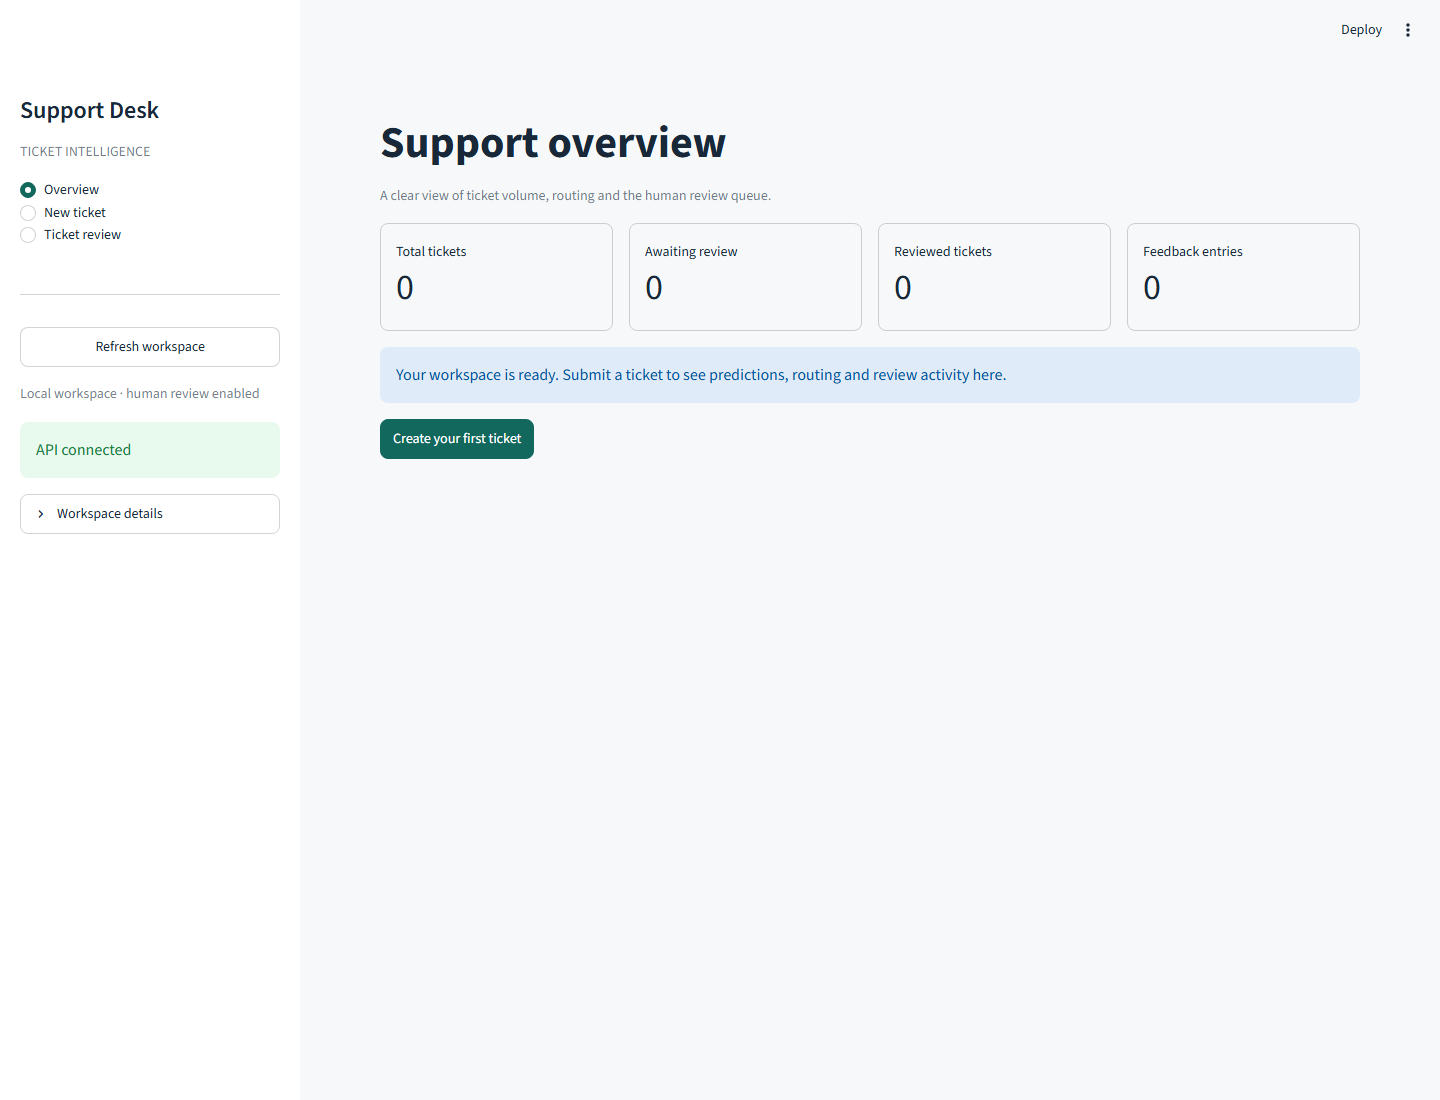
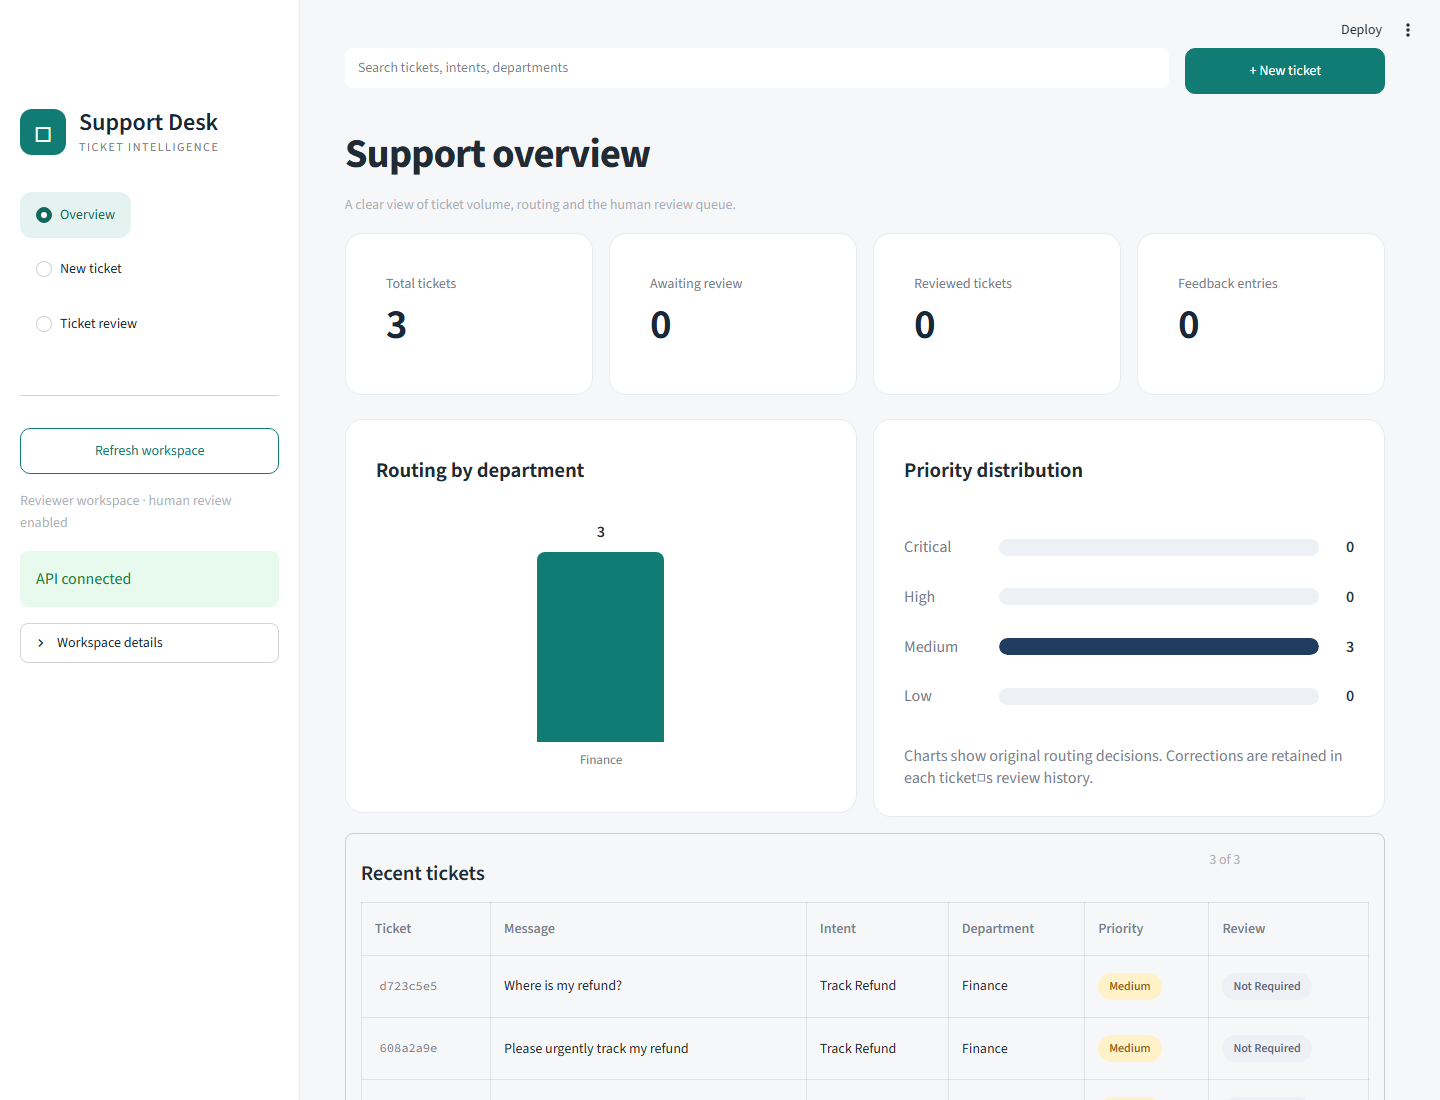
Restyle support dashboard to match supplied design template

diff --git a/app/dashboard.css b/app/dashboard.css
@@ -1,0 +1,53 @@
+<style>
+:root { --desk-teal:#107c74; --desk-border:#e7eaee; }
+.stApp { background:#f6f7f9; color:#202b34; }
+.stMainBlockContainer { max-width:1600px; padding:2rem 2.8rem 3rem; }
+header[data-testid="stHeader"] { background:transparent; }
+[data-testid="stSidebar"] { background:white; border-right:1px solid var(--desk-border); }
+[data-testid="stSidebar"] > div:first-child { padding-top:2rem; }
+.brand { display:flex; gap:13px; align-items:center; margin:0 0 35px; }
+.brand-icon { display:grid; place-items:center; background:var(--desk-teal); color:white; border-radius:12px; width:46px; height:46px; font-size:32px; }
+.brand strong { font-size:24px; line-height:1.2; }
+.brand small { display:block; color:#78828d; font-size:12px; letter-spacing:1.5px; max-width:150px; }
+[data-testid="stSidebar"] [role="radiogroup"] { gap:8px; }
+[data-testid="stSidebar"] [role="radiogroup"] label { padding:12px 16px; border-radius:12px; width:100%; font-size:17px; }
+[data-testid="stSidebar"] [role="radiogroup"] label:has(input:checked) { background:#e4f3f0; color:#12685d; font-weight:650; }
+[data-testid="stSidebar"] [role="radiogroup"] label > div:first-child { display:none; }
+[data-testid="stSidebar"] button { border-color:var(--desk-teal); color:var(--desk-teal); font-weight:650; min-height:48px; }
+h1 { font-size:2.55rem!important; letter-spacing:-1px; padding-top:1.2rem!important; }
+h3 { font-size:1.3rem!important; }
+[data-testid="stCaptionContainer"] { color:#75808b; }
+[data-testid="stMetric"] { background:white; border:1px solid var(--desk-border)!important; border-radius:17px; padding:23px 25px!important; }
+[data-testid="stMetricValue"] { font-size:2.6rem; font-weight:650; }
+[data-testid="stMetricLabel"] { color:#76818b; }
+[data-testid="stVerticalBlockBorderWrapper"] > div { border-radius:17px!important; border-color:var(--desk-border)!important; background:white; }
+.stButton button, .stFormSubmitButton button { border-radius:10px; min-height:46px; }
+button[kind="primary"] { background:var(--desk-teal); border-color:var(--desk-teal); font-weight:650; }
+[data-testid="stTextInput"] input { min-height:42px; }
+.chart-card { background:white; border:1px solid var(--desk-border); border-radius:18px; padding:26px 30px; min-height:365px; margin:8px 0 16px; }
+.chart-card h3 { margin:0 0 28px; font-size:22px; font-weight:650; }
+.department-chart { height:260px; display:flex; align-items:flex-end; justify-content:space-around; gap:18px; padding-top:12px; }
+.department-column { flex:1; max-width:155px; display:flex; align-items:center; flex-direction:column; gap:8px; }
+.department-column span { font-weight:600; }
+.department-bar { background:var(--desk-teal); width:82%; border-radius:8px 8px 0 0; }
+.department-column small { color:#78828d; text-align:center; min-height:36px; font-size:13px; }
+.priority-chart { display:flex; flex-direction:column; gap:24px; margin:36px 0; }
+.priority-row { display:grid; grid-template-columns:80px 1fr 20px; gap:15px; align-items:center; color:#75808b; }
+.priority-track { height:17px; background:#edf0f5; border-radius:20px; overflow:hidden; }
+.priority-fill { height:100%; background:#203d60; border-radius:20px; }
+.priority-fill.critical { background:#d74b55; } .priority-fill.high { background:#df8c36; } .priority-fill.low { background:#159184; }
+.priority-row strong { color:#26313b; text-align:right; }
+.chart-note { color:#7a838d; font-size:14px; line-height:1.4; margin:0; }
+.ticket-table-wrap { overflow-x:auto; }
+.ticket-table { border-collapse:collapse; width:100%; font-size:14px; text-align:left; background:white; }
+.ticket-table th, .ticket-table td { border-left:0!important; border-right:0!important; }
+.ticket-table th { background:#f6f7f9; color:#74808d; font-weight:550; padding:15px 13px; white-space:nowrap; }
+.ticket-table td { border-top:1px solid #edf0f3; padding:17px 13px; vertical-align:middle; }
+.ticket-table td:nth-child(2) { min-width:230px; max-width:390px; overflow-wrap:anywhere; }
+.ticket-table code { background:none; color:#75808b; font-size:12px; }
+.badge { display:inline-block; border-radius:30px; padding:4px 11px; white-space:nowrap; font-size:12px; font-weight:550; background:#edf0f5; color:#586578; }
+.badge.medium { background:#fff2c9; color:#95601d; } .badge.high { background:#ffead9; color:#a94c12; }
+.badge.critical,.badge.needs_review { background:#ffe4e7; color:#ab3548; }
+.badge.low,.badge.reviewed { background:#dcfbe8; color:#26784b; }
+@media(max-width:800px) { .stMainBlockContainer { padding:1.2rem; } .chart-card { padding:20px; } h1 { font-size:2rem!important; } }
+</style>

diff --git a/app/dashboard.py b/app/dashboard.py
@@ -1,6 +1,7 @@
 """Streamlit customer support dashboard, backed exclusively by the HTTP API."""
 
 from pathlib import Path
+from html import escape
 import hmac
 import os
 import sys
@@ -34,6 +35,10 @@ def require_access():
     if st.session_state.get("access_failed"):
         st.error("Password not recognized.")
     return False
+
+
+def render_html(markup):
+    st.markdown(markup, unsafe_allow_html=True)
 
 
 def readable(value):
@@ -95,15 +100,26 @@ def show_overview(api):
         return
     left, right = st.columns(2)
     with left:
-        with st.container(border=True):
-            st.subheader("Routing by department")
-            st.bar_chart(pd.DataFrame.from_dict(metrics["original_departments"], orient="index", columns=["Tickets"]), color="#12685d")
+        departments = metrics["original_departments"]
+        maximum = max(departments.values(), default=1) or 1
+        bars = ''.join(f'<div class="department-column"><span>{count}</span><div class="department-bar" style="height:{max(2, count / maximum * 190)}px"></div><small>{escape(name)}</small></div>' for name, count in departments.items())
+        render_html(f'<section class="chart-card"><h3>Routing by department</h3><div class="department-chart">{bars}</div></section>')
     with right:
-        with st.container(border=True):
-            st.subheader("Priority distribution")
-            counts = {priority: metrics["original_priorities"].get(priority, 0) for priority in ["Critical", "High", "Medium", "Low"]}
-            st.bar_chart(pd.DataFrame.from_dict(counts, orient="index", columns=["Tickets"]), color="#315b87")
-    st.caption("Charts show original routing decisions. Corrections are retained in each ticket’s review history.")
+        counts = {priority: metrics["original_priorities"].get(priority, 0) for priority in ["Critical", "High", "Medium", "Low"]}
+        maximum = max(counts.values(), default=1) or 1
+        rows = ''.join(f'<div class="priority-row"><span>{priority}</span><div class="priority-track"><div class="priority-fill {priority.lower()}" style="width:{count / maximum * 100}%"></div></div><strong>{count}</strong></div>' for priority, count in counts.items())
+        render_html(f'<section class="chart-card"><h3>Priority distribution</h3><div class="priority-chart">{rows}</div><p class="chart-note">Charts show original routing decisions. Corrections are retained in each ticket&#9633;s review history.</p></section>')
+    search = st.session_state.get('overview_search', '').strip().casefold()
+    result = api.tickets(limit=100 if search else 5)
+    tickets = result['items']
+    if search:
+        tickets = [t for t in tickets if search in ' '.join([t['id'], t['text'], readable(t['result']['prediction']['intent']), t['result']['department']]).casefold()]
+        st.caption('Search covers the latest 100 tickets: messages, intents, departments and ticket IDs.')
+    with st.container(border=True):
+        heading, count = st.columns([5, 1])
+        heading.subheader('Recent tickets' if not search else 'Search results')
+        count.caption(f"{len(tickets)} of {result['total']}")
+        show_ticket_table(tickets)
     with st.expander('Human feedback analytics'):
         st.metric('Human correction rate', f"{metrics['correction_rate']:.1%}")
         st.caption('Latest review per ticket; confirmations are not corrections. This is review activity, not unbiased test accuracy.')
@@ -111,8 +127,6 @@ def show_overview(api):
             st.bar_chart(pd.DataFrame.from_dict(metrics['corrected_intents'], orient='index', columns=['Corrected tickets']))
         if metrics['review_activity_by_day']:
             st.dataframe(pd.DataFrame.from_dict(metrics['review_activity_by_day'], orient='index').rename_axis('Review date'), width='stretch')
-    st.subheader("Recent tickets")
-    show_ticket_table(api.tickets(limit=5)["items"])
 
 
 def show_new_ticket(api):
@@ -122,7 +136,7 @@ def show_new_ticket(api):
     with left:
         with st.form("new_ticket_form"):
             text = st.text_area("Customer message", height=190, max_chars=10000, key="ticket_text",
-                                placeholder="For example: I requested a refund last week. Can you check its status?")
+                                placeholder="For example: I requested a refund last week. Can you check its status&#9633;")
             submitted = st.form_submit_button("Classify and save ticket", type="primary")
         if submitted:
             if not text.strip():
@@ -149,9 +163,19 @@ def show_ticket_table(tickets):
     if not tickets:
         st.info("No tickets to display.")
         return
-    st.dataframe([{"Ticket": t["id"][:8], "Message": t["text"], "Intent": readable(t["result"]["prediction"]["intent"]),
-                   "Department": t["result"]["department"], "Priority": t["result"]["priority"],
-                   "Review": readable(t["review_status"])} for t in tickets], hide_index=True, width="stretch")
+    rows = []
+    for ticket in tickets:
+        result = ticket['result']
+        priority = result['priority']
+        status = ticket['review_status']
+        cells = [f'<code>{escape(ticket["id"][:8])}</code>', escape(ticket['text']),
+                 escape(readable(result['prediction']['intent'])), escape(result['department']),
+                 f'<span class="badge {escape(priority.lower())}">{escape(priority)}</span>',
+                 f'<span class="badge {escape(status)}">{escape(readable(status))}</span>']
+        rows.append('<tr>' + ''.join(f'<td>{cell}</td>' for cell in cells) + '</tr>')
+    headers = ''.join(f'<th>{name}</th>' for name in ['Ticket', 'Message', 'Intent', 'Department', 'Priority', 'Review'])
+    render_html('<div class="ticket-table-wrap"><table class="ticket-table"><thead><tr>' + headers + '</tr></thead><tbody>' + ''.join(rows) + '</tbody></table></div>')
+
 
 
 def show_review(api):
@@ -227,12 +251,12 @@ def show_review(api):
 
 def main():
     st.set_page_config(page_title="Support Desk · Ticket intelligence", page_icon="📬", layout="wide")
+    render_html((Path(__file__).parent / "dashboard.css").read_text(encoding="utf-8"))
     if not require_access():
         st.stop()
     api = SupportAPI()
     with st.sidebar:
-        st.title("Support Desk")
-        st.caption("TICKET INTELLIGENCE")
+        render_html('<div class="brand"><span class="brand-icon">&#9633;</span><div><strong>Support Desk</strong><small>TICKET INTELLIGENCE</small></div></div>')
         page = st.radio("Workspace", ["Overview", "New ticket", "Ticket review"], key="navigation", label_visibility="collapsed")
         st.divider()
         refresh = st.button("Refresh workspace", width="stretch")
@@ -247,6 +271,11 @@ def main():
                 st.caption(f"Model: {health['model_version']}")
                 st.caption(f"Policy: {health['policy_version']}")
                 st.caption(f"Application: {health.get('application_version', '1.0.0')}")
+        search_column, action_column = st.columns([4, 1])
+        with search_column:
+            st.text_input("Search tickets, intents, departments", placeholder="Search tickets, intents, departments", key="overview_search", label_visibility="collapsed", disabled=page != "Overview")
+        with action_column:
+            st.button("+ New ticket", type="primary", on_click=navigate_to_new, width="stretch")
         if st.session_state.pop("review_saved", None):
             st.success("Review saved. The original prediction is preserved and the review queue is updated.")
         {"Overview": show_overview, "New ticket": show_new_ticket, "Ticket review": show_review}[page](api)

diff --git a/tests/test_dashboard.py b/tests/test_dashboard.py
@@ -106,7 +106,13 @@ class DashboardTests(unittest.TestCase):
         app = self.app.run()
         self.assertFalse(app.exception)
         self.assertEqual(app.metric[0].value, "1")
-        self.assertTrue(app.dataframe)
+        self.assertTrue(any(item.value == "Recent tickets" for item in app.subheader))
+        app.text_input(key="overview_search").set_value("Finance").run()
+        self.assertFalse(app.exception)
+        self.assertTrue(any("1 of 1" in item.value for item in app.caption))
+        app.text_input(key="overview_search").set_value("no-such-ticket").run()
+        self.assertFalse(app.exception)
+        self.assertTrue(any("No tickets to display" in item.value for item in app.info))
 
     def test_api_failure_renders_actionable_error(self):
         with patch("app.client.SupportAPI.health", side_effect=APIError("Cannot reach the support API")):

diff --git a/scripts/capture_dashboard.py b/scripts/capture_dashboard.py
@@ -59,7 +59,7 @@ def main():
                 time.sleep(0.5)
             if "Support overview" not in text or "Total tickets" not in text:
                 raise RuntimeError("Dashboard did not render expected content: " + text[:200])
-            time.sleep(2)  # Allow the sidebar entrance animation to finish.
+            time.sleep(12)  # Allow HTML cards, styles and sidebar animation to finish.
             screenshot = command("Page.captureScreenshot", {"format": "png", "captureBeyondViewport": False})
             output.write_bytes(base64.b64decode(screenshot["data"]))
             print(f"Verified browser content and saved {output}")
